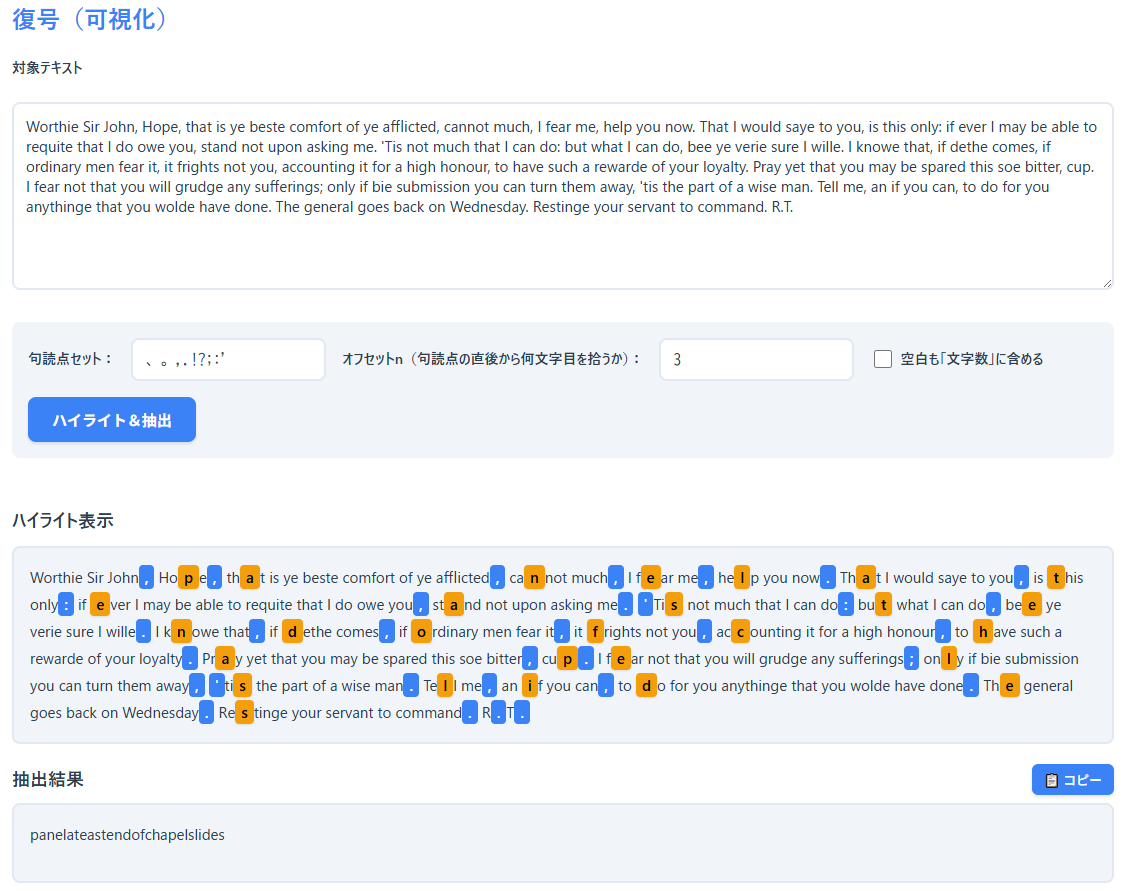
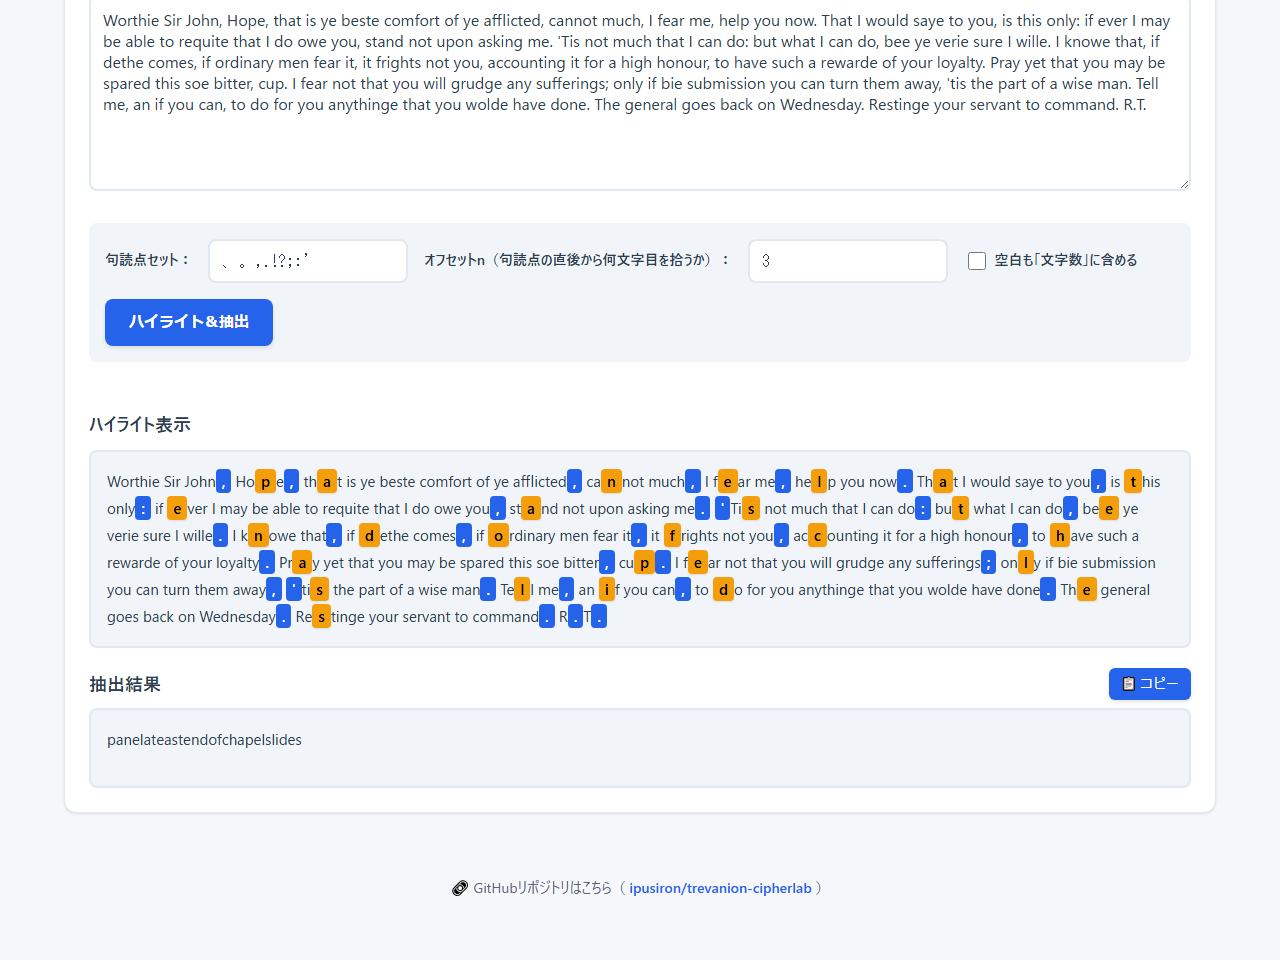
段階6: README をシリーズ標準に整え、撮影とテストを足す
- ユースケース（学習・教育・実務・趣味・ほかのツール・限界）、テスト、動作環境の節を足した
- ディレクトリー構造を実態に合わせ、全行に説明を付けた
- ほかのツールとの違い（次の句読点で打ち切るか）を表で示した
- スクリーンショットを4枚撮り直した（復号・逸話の検証・制約チェック・座学）
- README と ENCRYPTION.md の記述を実装と突き合わせるテスト、体裁のテストを足した（40→63件）
- CLAUDE.md に計算部の仕様と、守るべき約束（CSP・配色・自動生成の位置づけ・逸話の扱い）を書いた

diff --git a/test/readme.test.js b/test/readme.test.js
@@ -1,0 +1,137 @@
+import test from 'node:test';
+import assert from 'node:assert/strict';
+import fs from 'node:fs';
+import path from 'node:path';
+import { read, core, LETTER_A, LETTER_B, HIDDEN } from './load.js';
+
+const C = core();
+const readme = read('README.md');
+const enc = read('ENCRYPTION.md');
+const html = read('index.html');
+const ROOT = new URL('..', import.meta.url);
+
+test('YAML メタデータの構造と値を保つ', () => {
+  const block = readme.match(/^<!--\n---\n([\s\S]*?)\n---\n-->/);
+  assert.ok(block, 'HTML コメントで囲んだ YAML がない');
+  const yaml = block[1];
+  assert.match(yaml, /^id: day069$/m);
+  assert.match(yaml, /^slug: trevanion-cipherlab$/m);
+  assert.match(yaml, /^repo_url: "https:\/\/github\.com\/ipusiron\/trevanion-cipherlab"$/m);
+  assert.match(yaml, /^demo_url: "https:\/\/ipusiron\.github\.io\/trevanion-cipherlab\/"$/m);
+  assert.match(yaml, /^hub: true$/m);
+  for (const key of ['category_ja', 'category_en', 'tags']) {
+    assert.ok(new RegExp(`^${key}:\n((?:  - .+\n)+)`, 'm').test(yaml), `${key} がブロック形式でない`);
+  }
+});
+
+test('README に書いた抽出の例が、コードの出力と一致する', () => {
+  // 打ち切る／打ち切らないの違いを表にしている
+  const row = readme.match(/\| `ab, cd\. ef, ghijk`[^|]*\| `(\w+)` \| `(\w+)` \|/);
+  assert.ok(row, '数え方の違いの表がない');
+  const opt = { puncts: ',.', offset: 3, countSpaces: false };
+  assert.equal(C.extract('ab, cd. ef, ghijk', { ...opt, mode: 'stop' }).message, row[1]);
+  assert.equal(C.extract('ab, cd. ef, ghijk', { ...opt, mode: 'skip' }).message, row[2]);
+});
+
+test('README と画面に書いた隠された文が、手紙から実際に出る', () => {
+  assert.ok(readme.includes('panelateastendofchapelslides'));
+  assert.ok(readme.includes('panel at east end of chapel slides'));
+  assert.ok(html.includes('panel at east end of chapel slides'));
+  const r = C.extract(LETTER_A, { puncts: ",.;:!?'", offset: 3, countSpaces: false, mode: 'stop' });
+  assert.equal(r.message.toLowerCase().replace(/[^a-z]/g, ''), HIDDEN);
+  const b = C.extract(LETTER_B, { puncts: ",.;:!?'", offset: 3, countSpaces: false, mode: 'skip' });
+  assert.equal(b.message.toLowerCase().replace(/[^a-z]/g, ''), HIDDEN);
+});
+
+test('逸話を断定せず、出どころを書いてある', () => {
+  for (const word of ['1853年', 'National Miscellany', '一次史料', 'クラレンドン']) {
+    assert.ok(readme.includes(word), `README に「${word}」がない`);
+    assert.ok(html.includes(word), `画面に「${word}」がない`);
+  }
+  // 資料に基づかない断定が残っていないこと
+  for (const bad of ['トレヴァニオン卿', '脱出に成功しました', '脱出経路として機能', '彼の同志であった', '原綴りを保った']) {
+    assert.equal(readme.includes(bad), false, `README に「${bad}」が残っている`);
+    assert.equal(html.includes(bad), false, `画面に「${bad}」が残っている`);
+  }
+});
+
+test('自動生成を看板から外し、実験的だと書いてある', () => {
+  assert.match(readme, /\*\*実験的な機能\*\*：自動生成/);
+  assert.doesNotMatch(readme, /\*\*実装済み機能\*\*：[^\n]*自動生成/);
+  assert.ok(enc.includes('かぎられること'));
+  assert.ok(html.includes('この機能は実験的です'));
+});
+
+test('ENCRYPTION.md の記述が実装と食い違っていない', () => {
+  assert.equal(enc.includes('**生成数**: 7個の候補'), false); // 固定で7個と書いていた
+  assert.equal(enc.includes('70%以上の制約満足度'), false);
+  assert.ok(enc.includes('青の下地'), 'ハイライトの説明が実装と合っていない');
+  assert.equal(enc.includes('トレヴァニアン'), false);
+  // リンク切れ（README に無い見出しを指していた）
+  assert.equal(enc.includes('README.md#トレヴァニアン暗号'), false);
+});
+
+test('README の画像がすべて実在する', () => {
+  const imgs = [...readme.matchAll(/!\[[^\]]*\]\(([^)]+)\)/g)].map((m) => m[1]).filter((u) => !u.startsWith('http'));
+  assert.ok(imgs.length >= 4, `画像の参照が ${imgs.length} 件しかない`);
+  for (const rel of imgs) assert.ok(fs.existsSync(new URL(rel, ROOT)), `${rel} がない`);
+});
+
+test('ディレクトリー構造に全ファイルが載っていて、全行に説明がある', () => {
+  const tree = readme.match(/## 📁 ディレクトリー構造\n\n```\n([\s\S]*?)```/);
+  assert.ok(tree, 'ディレクトリー構造がない');
+  const lines = tree[1].trim().split('\n');
+  for (const line of lines.slice(1)) assert.match(line, /# .+$/, `説明のない行: ${line}`);
+
+  const skip = new Set(['.git', 'node_modules', '.claude']);
+  const found = [];
+  const walk = (dir, prefix) => {
+    for (const entry of fs.readdirSync(new URL(dir, ROOT), { withFileTypes: true })) {
+      if (skip.has(entry.name)) continue;
+      const rel = prefix + entry.name;
+      if (entry.isDirectory()) walk(`${dir}${entry.name}/`, `${rel}/`);
+      else found.push(rel);
+    }
+  };
+  walk('', '');
+  for (const file of found) {
+    const base = path.basename(file);
+    assert.ok(lines.some((l) => l.includes(`${base} `)), `ツリーに ${file} がない`);
+  }
+});
+
+test('シリーズ標準の見出しがそろっている', () => {
+  for (const h of ['# Trevanion CipherLab', '**Day069 - 生成AIで作るセキュリティツール100**',
+    '## 🌐 デモページ', '## 📸 スクリーンショット', '## 🎯 ユースケース', '## 🧪 テスト',
+    '## 📁 ディレクトリー構造', '## 💻 動作環境', '## 📄 ライセンス', '## 🛠 このツールについて']) {
+    assert.ok(readme.includes(h), `${h} がない`);
+  }
+  assert.ok(readme.includes('https://akademeia.info/?page_id=42163'));
+});
+
+// 表記のゆれ
+const NG = [
+  [/サーバ(?![ーイ])/, 'サーバー'],
+  [/ユーザ(?![ー])/, 'ユーザー'],
+  [/ブラウザ(?![ー])/, 'ブラウザー'],
+  [/フォルダ(?![ー])/, 'フォルダー'],
+  [/リポジトリ(?![ー])/, 'リポジトリー'],
+  [/ライブラリ(?![ー])/, 'ライブラリー'],
+  [/ディレクトリ(?![ー])/, 'ディレクトリー'],
+  [/インターフェース/, 'インターフェイス'],
+  [/分かる|分かり|分から/, 'わかる'],
+  [/全て/, 'すべて'],
+  [/既に/, 'すでに'],
+  [/適時/, '適宜'],
+  [/トレヴァニアン/, 'トレヴァニオン'],
+];
+
+for (const file of ['README.md', 'ENCRYPTION.md', 'index.html']) {
+  test(`${file} の表記をそろえる`, () => {
+    const text = read(file);
+    for (const [re, should] of NG) {
+      const m = text.match(re);
+      assert.equal(m, null, m ? `「${m[0]}」は「${should}」に（${file}）` : '');
+    }
+  });
+}

diff --git a/test/format.test.js b/test/format.test.js
@@ -1,0 +1,44 @@
+import test from 'node:test';
+import assert from 'node:assert/strict';
+import { read } from './load.js';
+
+// 1行に詰め込んだ（minify した）ファイルを見つける。行数の下限も見る
+const FILES = [
+  { path: 'js/trevanion-core.js', maxLine: 160, minLines: 120 },
+  { path: 'script.js', maxLine: 1000, minLines: 1200 }, // 単語の辞書に長い行がある
+  { path: 'style.css', maxLine: 250, minLines: 900 },
+  { path: 'index.html', maxLine: 950, minLines: 350 }, // 逸話の手紙を初期値に入れている
+  { path: 'test/core.test.js', maxLine: 900, minLines: 120 }, // 手紙の全文を持つ
+  { path: 'test/html.test.js', maxLine: 160, minLines: 50 },
+  { path: 'test/contrast.test.js', maxLine: 160, minLines: 50 },
+  { path: 'test/readme.test.js', maxLine: 160, minLines: 100 },
+];
+
+for (const f of FILES) {
+  test(`${f.path} が1行に詰め込まれていない`, () => {
+    const lines = read(f.path).split('\n');
+    const longest = lines.reduce((a, b) => (a.length > b.length ? a : b), '');
+    assert.ok(longest.length <= f.maxLine, `最長 ${longest.length} 文字: ${longest.slice(0, 60)}…`);
+    assert.ok(lines.length >= f.minLines, `${lines.length} 行しかない`);
+  });
+}
+
+test('計算部は DOM を使わない', () => {
+  const core = read('js/trevanion-core.js');
+  for (const token of ['document', 'window', 'localStorage', 'navigator']) {
+    assert.equal(core.includes(token), false, `計算部に ${token} がある`);
+  }
+});
+
+test('画面のスクリプトにデバッグ用の出力が残っていない', () => {
+  const js = read('script.js');
+  const lines = js.split('\n').filter((l) => /^\s*console\.(log|debug)\(/.test(l));
+  assert.deepEqual(lines, [], `console.log が ${lines.length} 行残っている`);
+});
+
+test('計算部を読み込んでから画面のスクリプトを読む', () => {
+  const html = read('index.html');
+  const core = html.indexOf('js/trevanion-core.js');
+  const script = html.indexOf('./script.js');
+  assert.ok(core > 0 && script > core, '読み込みの順が違う');
+});

diff --git a/index.html b/index.html
@@ -425,7 +425,7 @@
 
   <footer>
     <div class="footer">
-      🔗 GitHubリポジトリはこちら（
+      🔗 GitHubリポジトリーはこちら（
       <a href="https://github.com/ipusiron/trevanion-cipherlab" target="_blank" rel="noopener noreferrer">ipusiron/trevanion-cipherlab</a>
       ）
     </div>

diff --git a/README.md b/README.md
@@ -66,8 +66,17 @@ hub: true
 
 ## 📸 スクリーンショット
 
->![オリジナルのトレヴァニオン暗号文の復号](assets/screenshot.png)  
->*オリジナルのトレヴァニオン暗号文の復号*
+>![逸話の手紙から隠された文を取り出す](assets/screenshot.png)
+>*復号タブ。逸話の手紙から隠された文を取り出したところ（青＝句読点、黄＝抽出される文字）*
+
+>![この逸話はどこまで確かめられるか](assets/screenshot2.png)
+>*基本タブ。逸話の出どころと、同時代の史料との食い違いを出典つきで示す*
+
+>![制約チェックで1文字ずつ突き合わせる](assets/screenshot3.png)
+>*暗号化タブ（生成支援）。自分で書いたカバーテキストを1文字ずつ突き合わせる*
+
+>![Null暗号の座学](assets/screenshot4.png)
+>*座学タブ。Null暗号の定義と、確かめられた使用例を出典つきで解説する*
 
 ---
 
@@ -213,29 +222,102 @@ hub: true
 
 ---
 
-## 📁 ディレクトリー構成
+## 🎯 ユースケース
+
+### セキュリティの学習
+
+- Null暗号（冗字暗号）の仕組みを、逸話の手紙そのもので確かめる
+- 規則を知らなければただの文章に見えることを通して、暗号とステガノグラフィーの違いを体感する
+- CTFや謎解きで「数字でない隠し文」に当たったとき、句読点やオフセットを変えて試す
+
+### 教育・自習
+
+- 国語や英語の授業で、文章に規則を仕込む課題にする。作る側に回ると、自然な文に見せる難しさがわかる
+- 歴史の授業で、**この逸話の検証そのもの**を史料批判の教材にする。1853年より前にさかのぼれないこと、同時代の史料と合わないことを、資料をたどって確かめられる
+- 情報の授業で、情報を隠す方法の分類（暗号・ステガノグラフィー）を具体例で扱う
+
+### 仕事・実務
+
+- 情報漏えいや検閲の研修で、自然文に情報を混ぜる手口を見せる
+- 自分で書いた抽出処理の出力を、このツールと突き合わせて確かめる
+- ほかのツールと結果が合わないとき、数え方（次の句読点で打ち切るか）や空白の扱いの違いが原因かを切り分ける
+
+### 趣味・創作
+
+- 脱出ゲームや謎解きの問題を作り、答えを検算する
+- 小説やゲームに出す暗号の設定を、実際に動く形で確かめる
+- 手紙やカードに短いメッセージを仕込む
+
+### ほかのツールとの組み合わせ
+
+- [Hidden Message Challenge](https://ipusiron.github.io/hidden-message-challenge/)（Day036）：分置式暗号の体験。位置抽出のチャレンジがNull暗号にあたる
+
+### 限界
+
+- 学習用のツールです。**秘密を守る目的には使えません。**規則を知られれば読めますし、規則に合わせて書くと文が不自然になりやすく、かえって目を引きます
+- 自動生成は**実験的**です。確実に作るなら「生成支援」で自分で書き、制約チェックにかけてください
+- 逸話そのものの史実性は確かめられていません（「この逸話はどこまで確かめられるか」を参照）
+
+---
+
+## 🧪 テスト
+
+```bash
+npm test
+```
+
+- Node.js 22以降で動きます。依存パッケージはありません（`node --test` だけを使います）
+- GitHub Actionsで、pushとpull requestのたびに自動で実行します
+- 逸話の手紙の2つの版で、どの設定なら隠された文が出るかを固定しています。3つの数え方の違い、制約チェック、境界（空・句読点だけ・サロゲートペア）、配色のコントラスト比、index.htmlの静的な検査を含みます
+
+---
+
+## 📁 ディレクトリー構造
 
 ```
 trevanion-cipherlab/
-├── .github/
-│   └── ISSUE_TEMPLATE/
-│       ├── bug_report.md
-│       ├── config.yml
-│       ├── feature_request.md
-│       ├── research.md
-│       └── task.md
-├── assets/
-│   └── screenshot.png
-├── .gitignore
-├── .nojekyll
-├── CLAUDE.md                 # Claude Code用の設定・説明ファイル
-├── ENCRYPTION.md             # 暗号化機能の詳細ガイド
-├── index.html                # メインHTML（19KB）
-├── LICENSE                   # MITライセンス
-├── README.md                 # このファイル
-├── script.js                 # メインJavaScript（61KB）
-└── style.css                 # メインCSS（26KB）
+├── index.html              # 画面（4つのタブ・アコーディオン）
+├── script.js               # 画面側の処理（入力の読み取り・表示・タブ・生成）
+├── style.css               # 配色とレイアウト（狭い画面への対応を含む）
+├── js/                     # スクリプト
+│   └── trevanion-core.js   # 計算部（抽出・制約チェック・総当たり。DOMを使わない）
+├── test/                   # テスト（node --test で実行する）
+│   ├── load.js             # 画面と同じスクリプトの読み込みと、照合用の参照実装
+│   ├── core.test.js        # 計算部（逸話の手紙・3つの数え方・制約チェック・境界）
+│   ├── html.test.js        # index.html の静的な検査（CSP・id・aria・外部参照）
+│   ├── contrast.test.js    # 配色のコントラスト比と、狭い画面での折り返し
+│   ├── readme.test.js      # README と ENCRYPTION.md の記述を実装と突き合わせる
+│   └── format.test.js      # 1行に詰め込んでいないか、計算部がDOMを使っていないか
+├── .github/                # GitHub の設定
+│   ├── workflows/          # GitHub Actions のワークフロー
+│   │   └── test.yml        # push と pull request で npm test を走らせる
+│   └── ISSUE_TEMPLATE/     # Issue のテンプレート
+│       ├── bug_report.md   # 不具合の報告
+│       ├── config.yml      # テンプレートの選択画面の設定
+│       ├── feature_request.md # 機能の提案
+│       ├── research.md     # 調べもののメモ
+│       └── task.md         # 作業の記録
+├── assets/                 # 画像
+│   ├── screenshot.png      # スクリーンショット（復号タブ）
+│   ├── screenshot2.png     # スクリーンショット（基本タブ・逸話の検証）
+│   ├── screenshot3.png     # スクリーンショット（暗号化タブ・制約チェック）
+│   └── screenshot4.png     # スクリーンショット（座学タブ）
+├── package.json            # テストの実行設定（依存パッケージはない）
+├── CLAUDE.md               # Claude Code 向けの案内
+├── ENCRYPTION.md           # 暗号化の機能のくわしい説明
+├── LICENSE                 # MITライセンス
+├── .gitignore              # Git の除外設定
+├── .nojekyll               # GitHub Pages で Jekyll を使わない指定
+└── README.md               # このファイル
 ```
+
+---
+
+## 💻 動作環境
+
+- モダンブラウザー（Chrome・Edge・Firefox・Safari の最新版）
+- ローカルで開く場合は `index.html` をそのままブラウザーで開けます（読み込むファイルはすべて同じフォルダーの中にあります）
+- テストを走らせる場合は Node.js 22以降が要ります
 
 ---
 
@@ -243,7 +325,18 @@ trevanion-cipherlab/
 
 ### 自作ツール
 
-- [Hidden Message Challenge ― 分置式暗号の体験ツール](https://ipusiron.github.io/hidden-message-challenge/)
+- [Hidden Message Challenge ― 分置式暗号の体験ツール](https://ipusiron.github.io/hidden-message-challenge/)（Day036）
+
+### ほかのツールとの違い
+
+本ツールは、句読点から数える途中で次の句読点に出会ったら、**その句読点からは拾わない**という数え方を既定にしています。
+数えつづける流儀のツールもあり、同じ文でも結果が変わります。
+
+| 入力 | 打ち切る（本ツール） | 打ち切らない |
+|---|---|---|
+| `ab, cd. ef, ghijk`（3文字目・空白を数えない） | `i` | `egi` |
+
+アポストロフィーつきの手紙の版では、**打ち切る数え方でないと正しい文が出ません**。
 
 ---
 
@@ -253,7 +346,7 @@ MIT License – 詳細は [LICENSE](LICENSE) を参照してください。
 
 ---
 
-## 🛠 このツールについて
+## 🛠 このツールについて
 
 本ツールは、「生成AIで作るセキュリティツール100」プロジェクトの一環として開発されました。 
 このプロジェクトでは、AIの支援を活用しながら、セキュリティに関連するさまざまなツールを100日間にわたり制作・公開していく取り組みを行っています。

diff --git a/CLAUDE.md b/CLAUDE.md
@@ -74,3 +74,26 @@ The Trevanion cipher extracts the nth character after each punctuation mark:
 - Default offset: 3
 - Skips to next punctuation if fewer than n characters exist before it
 - Optional space counting toggle
+
+## Calculation layer (js/trevanion-core.js)
+
+Published as `globalThis.TrevanionCore`; it never touches the DOM, and the tests call it directly.
+
+- `extract(text, {puncts, offset, countSpaces, mode})` returns the characters, their positions, and the punctuation marks it could not read from. `mode` is the one real design decision here:
+  - `stop` (default): stop counting when another punctuation mark appears before the offset is reached
+  - `skip`: ignore punctuation and keep counting (this is what dCode does)
+  - `count`: count punctuation as a character
+- `checkConstraints(plaintext, covertext, options)` compares the two character by character
+- `sweep(text, options)` runs every combination of offset, space handling and mode
+
+**The two versions of the letter behave differently.** With the apostrophe version, only `stop` plus `'` in the punctuation set yields the hidden sentence; with the uppercase version without apostrophes, every mode works. Neither version works when spaces are counted. `test/core.test.js` pins all of this down.
+
+## Conventions
+
+- No dependencies, no build step, no CDN. Everything must keep working from `file://`
+- Write to the DOM with `textContent` or `escapeHtml`, never raw input in `innerHTML`
+- Keep the CSP meta as strict as it is. Inline `style` attributes are blocked by it, so toggle visibility with the `hidden` attribute (CSSOM property assignment is fine)
+- Colours used as text must stay at 4.5:1 or better; `test/contrast.test.js` enforces this
+- The auto-generation feature is **experimental and stays out of the headline feature list**. Its current design puts the connector, not the chosen word, right after the punctuation mark, so hits are accidental. Fixing that means building the sentence so the target letter lands at the offset position
+- The Trevanion anecdote has **no primary source**. Keep the hedging in index.html and README.md, and keep the citations (1853 *National Miscellany*, Clarendon, the transmission chain)
+- Japanese text: polite form in prose, plain form in bullet lists and tables; long vowel marks (サーバー, ブラウザー); no space between Japanese and Latin characters
